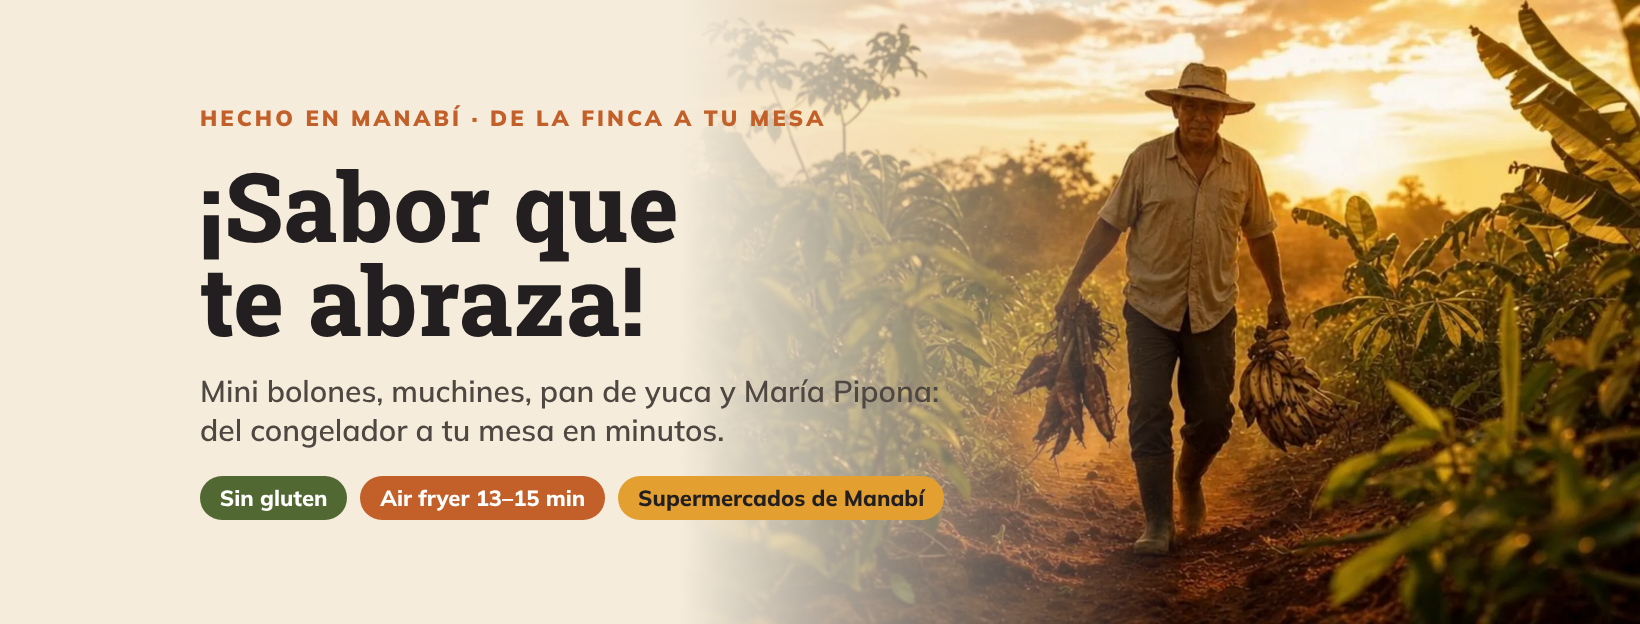
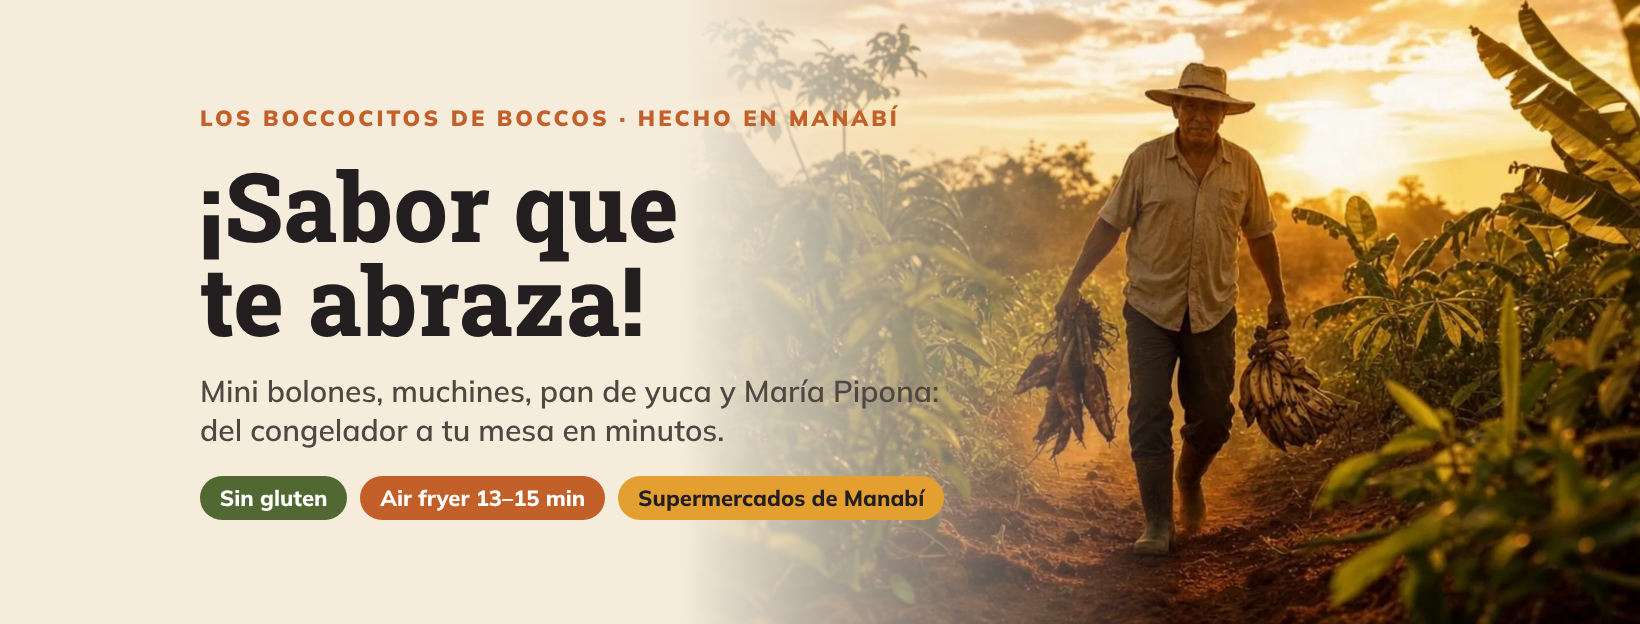
Combine Boccocitos and BOCCOS naming in social profiles
Claude-Session: https://claude.ai/code/session_01EUbezZyobHwMMhZhQ7CU7n

Changed region(s): [[0.1244, 0.1522, 0.5598, 0.2131]]

diff --git a/redes/src/render.js b/redes/src/render.js
@@ -60,7 +60,7 @@ const designs = [
       <img src="escena1.webp" style="position:absolute;right:0;top:0;height:624px;width:960px;object-fit:cover;object-position:40% 50%">
       <div style="position:absolute;right:0;top:0;width:960px;height:624px;background:linear-gradient(90deg,${C.crema} 0%,rgba(245,236,219,.0) 52%)"></div>
       <div style="position:absolute;left:200px;top:0;height:624px;width:860px;display:flex;flex-direction:column;justify-content:center;gap:26px">
-        <div style="font-weight:900;letter-spacing:.14em;color:${C.terracota};font-size:22px">HECHO EN MANABÍ · DE LA FINCA A TU MESA</div>
+        <div style="font-weight:900;letter-spacing:.14em;color:${C.terracota};font-size:22px">LOS BOCCOCITOS DE BOCCOS · HECHO EN MANABÍ</div>
         <div class="slab" style="font-weight:800;font-size:96px;line-height:.98;color:${C.carbon}">¡Sabor que<br>te abraza!</div>
         <div style="font-size:30px;font-weight:600;color:#4f4741;line-height:1.3">Mini bolones, muchines, pan de yuca y María Pipona:<br>del congelador a tu mesa en minutos.</div>
         <div class="chips" style="font-size:22px">
